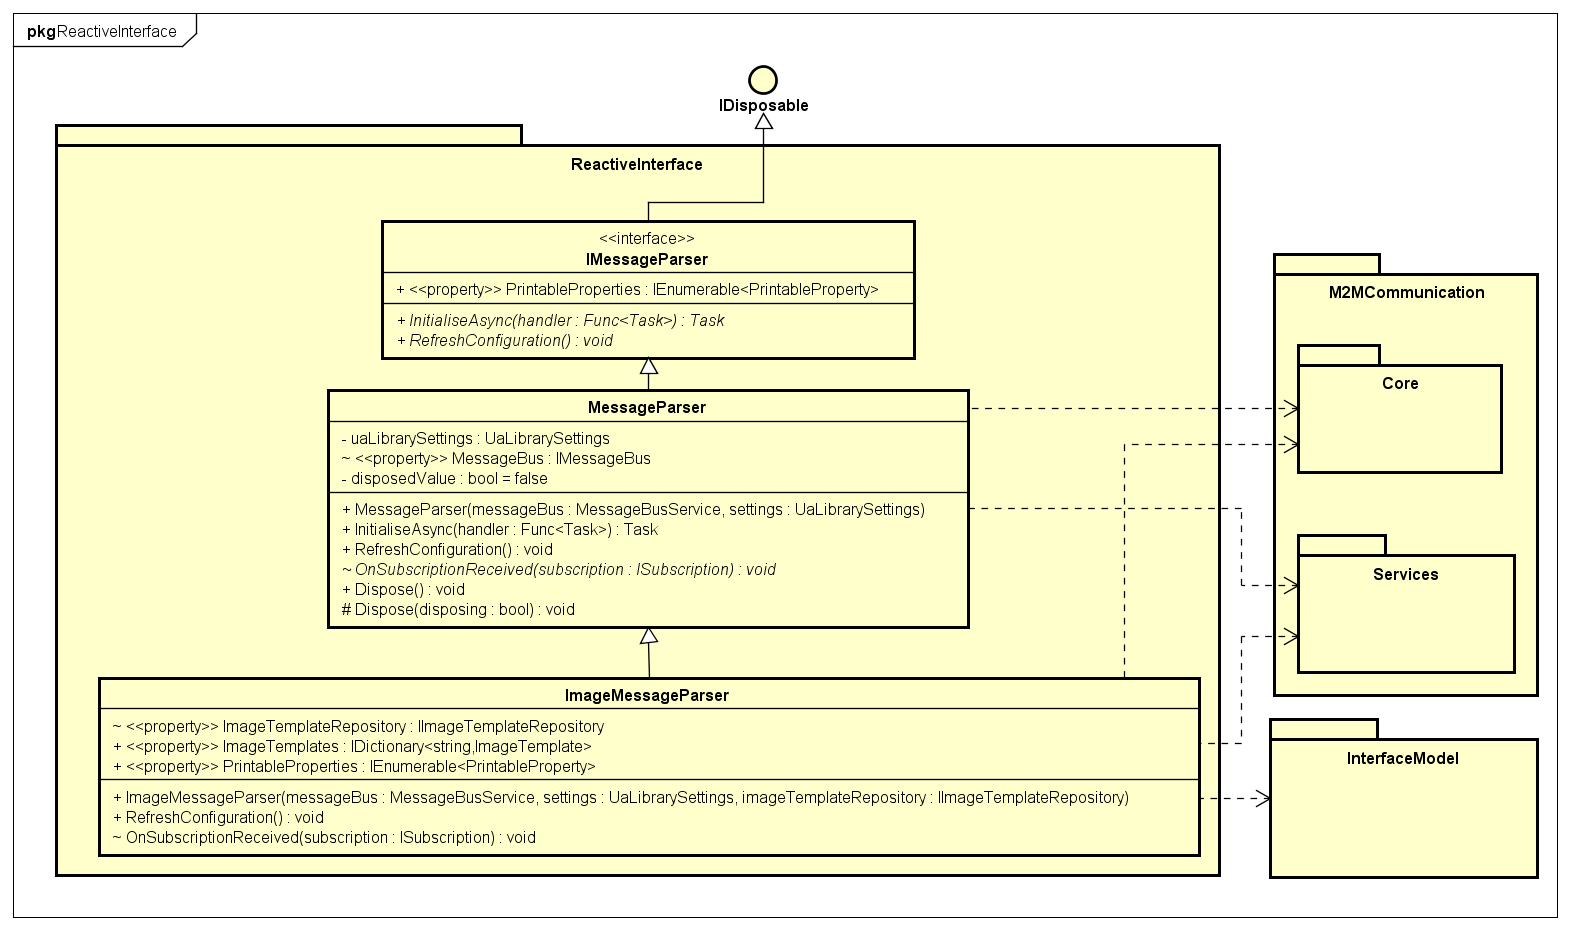
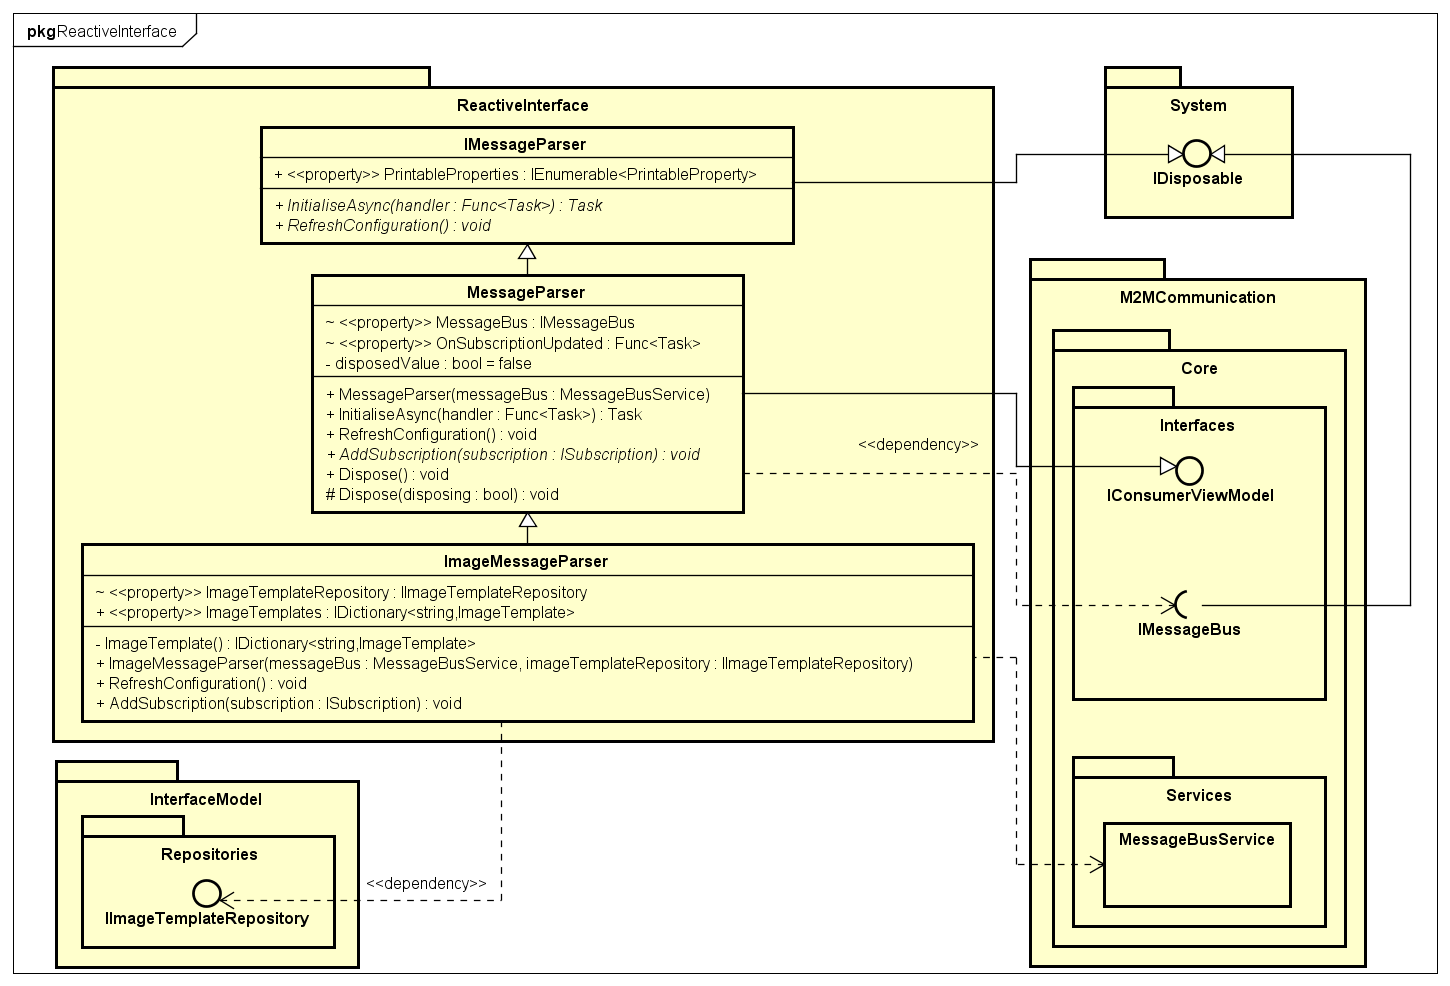
Updated documentation

diff --git a/M2M/M2MCommunication.Core/README.md b/M2M/M2MCommunication.Core/README.md
@@ -6,10 +6,59 @@ The goal of this project is to provide interfaces used in the whole application 
 
 | Name | Goal |
 |:----:|:-----|
-| `ISubscription` | Interface for a subscription to implement. Contains neccessary properties and methods |
 | `IConfiguration` | Interface for an implementation of configuration for either a consumer or producer |
-| `ISubscriptionFactory` | Interface for an object which is to be used for subscribing to the data types |
+| `IConsumerViewModel` | Interface for an implementation of a view model which should handle any new subscriptions |
+| `ILogger` | Interface for a logger to implement |
+| `ILoggerContainer` | An interface for a type that aggregates all external loggers and merges them into a single sink |
 | `IMessageBus` | Interface for an object representing a bus that will notify subscribers about changes in the data they subscribed to |
+| `ISubscription` | Interface for a subscription to implement. Contains neccessary properties and methods |
+| `ISubscriptionFactory` | Interface for an object which is to be used for subscribing to the data types |
+
+### *IConfiguration*
+
+An interface for an implementation of configuration for either a consumer or producer
+
+#### Methods
+
+| Return type | Name |  Description |
+|:-----------:|:----:|:-------------|
+| `string` | GetAliasForRepositoryGroup(`string` repositoryGroupName) | Provides an alias for a |
+
+### *IConsumerViewModel*
+
+Interface for an implementation of a view model which should handle any new subscriptions
+
+#### Methods
+
+| Return type | Name |  Description |
+|:-----------:|:----:|:-------------|
+| `void` | AddSubscription(`ISubscription` subscription) | Handles a new subscription |
+
+### *IMessageBus*
+
+An interface for an object representing a bus that will notify subscribers about changes in the data they subscribed to
+
+#### Methods
+
+| Return type | Name |  Description |
+|:-----------:|:----:|:-------------|
+| `void` | Initialise(`IConsumerViewModel` consumerViewModel)| Injects specified view model and start communication |
+| `Task` | InitialiseAsync(`IConsumerViewModel` consumerViewModel)| Injects specified view model and start communication asynchronously |
+| `void` | RefreshConfiguration() | Reads the configuration again and restarts the process of reading data |
+
+### *ILogger*
+
+Interface for a logger to implement
+
+#### Methods
+
+| Return type | Name |  Description |
+|:-----------:|:----:|:-------------|
+| `void` | LogInfo(`string` message, `string` callerName, `string` callerPath)| Logs specified message with `information` level |
+| `void` | LogWarning(`string` message, `string` callerName, `string` callerPath) | Logs specified message with `warning` level |
+| `void` | LogWarning(`Exception` exception, `string` message, `string` callerName, `string` callerPath) | Logs specified message and exception message with `warning` level |
+| `void` | LogError(`string` message, `string` callerName, `string` callerPath) | Logs specified message with `error` level |
+| `void` | LogError(`Exception` exception, `string` message, `string` callerName, `string` callerPath) | Logs specified message and exception message with `error` level |
 
 ### *ISubscription*
 
@@ -39,28 +88,6 @@ An interface for an implementation of configuration for either a consumer or pro
 | Return type | Name |  Description |
 |:-----------:|:----:|:-------------|
 | `void` | Initialise(`IConsumerViewModel` consumerViewModel) | Initialises the instance by providing the view model of the consumner's interface |
-
-### *IConfiguration*
-
-An interface for an implementation of configuration for either a consumer or producer
-
-#### Methods
-
-| Return type | Name |  Description |
-|:-----------:|:----:|:-------------|
-| `IDictionary<string, string>` | GetRepositoryGroupAliases() | Provides mappings of the repository group to its alias |
-
-### *IMessageBus*
-
-An interface for an object representing a bus that will notify subscribers about changes in the data they subscribed to
-
-#### Methods
-
-| Return type | Name |  Description |
-|:-----------:|:----:|:-------------|
-| `void` | Initialise(`UaLibrarySettings` settings)| Initialises the message bus with the specified settings |
-| `Task` | InitialiseAsync(`UaLibrarySettings` settings)| Initialises the message bus with the specified settings asynchronously |
-| `void` | RefreshConfiguration() | Reads the configuration again and restarts the process of reading data |
 
 ## Common types
 
@@ -95,8 +122,18 @@ A POCO object representing the type of a UA object
 
 | Type | Name | Accessors | Description |
 |:----:|:----:|:---------:|:------------|
-|`string`|TypeName| get; | Name of the type; required |
-|`string`|RepositoryGroupName| get; | Name of the repository the type belongs to |
+|`string`| TypeName | get; | Name of the type; required |
+|`string`| RepositoryGroupName | get; | Name of the repository the type belongs to |
+
+### *UaContractNames*
+
+A class containing const string values for MEF container to use as contract names
+
+#### Fields
+
+| Type | Name | Description |
+|:----:|:----:|:------------|
+|`string`| ConfigurationFileNameContract | Contract name for a configuration filename |
 
 ## Exceptions
 

diff --git a/M2M/M2MCommunication.Uaooi/README.md b/M2M/M2MCommunication.Uaooi/README.md
@@ -36,7 +36,6 @@ An implementation of the `ISubscription` interface used in `ISubscriptionFactory
 | `void` | Enable(`PropertyChangedEventHandler` handler) | Removes all existing event handlers and then adds the provided handler |
 | `void` | Disable() | Removes all existing event handlers |
 
-
 ## Injections
 
 | Name | Description |
@@ -57,7 +56,7 @@ A representation of the consumer's configuration.
 
 | Name | Description |
 |:----:|:------------|
-| Configuration() | Default constructor; Initialises the object |
+| Configuration(`ILogger` logger, `string` configurationFileName) | Initialises the object with provided logger and a name of the configuration file |
 
 #### Events
 
@@ -70,8 +69,7 @@ A representation of the consumer's configuration.
 
 | Return type | Name | Description |
 |:-----------:|:----:|:------------|
-| `void` | Initialise(`string` configurationFileName) | Initialises neccessary values that are not provided through dependency injection |
-| `IDictionary<string, string>` | GetRepositoryGroupAliases() | Used to read all mappings of the configured types to the aliases known to the reactive interface |
+| `string` | GetAliasForRepositoryGroup(`string` repositoryGroupName) | Used to read an alias connected to the repository's type |
 
 ### *ConsumerBindingFactory*
 
@@ -83,13 +81,7 @@ An implementation of `IBindingFactory` and `ISubscriptionFactory` which provides
 
 | Name | Description |
 |:----:|:------------|
-| ConsumerBindingFactory() | Default constructor; Initialises the object |
-
-#### Events
-
-| Type | Name | Description |
-|:----:|:----:|:------------|
-| `EventHandler<ISubscription>` | SubscriptionAdded | Invoked after generating a binding and creating a subscription that wraps it |
+| ConsumerBindingFactory(`ILogger` logger, `IConfiguration` configuration) | Initialises the object with provided logger and configuration instances |
 
 #### Methods
 
@@ -97,6 +89,7 @@ An implementation of `IBindingFactory` and `ISubscriptionFactory` which provides
 |:-----------:|:----:|:------------|
 | `IConsumerBinding` | GetConsumerBinding(`string` repositoryGroup, `string` processValueName, `UATypeInfo` fieldTypeInfo) | Gets a consumer binding for a type specified by the parameters |
 | `IProducerBinding` | GetProducerBinding(`string` repositoryGroup, `string` processValueName, `UATypeInfo` fieldTypeInfo) | Throws `NotSupportedException` since the application works only in the consumer mode |
+| `void` | Initialise(`IConsumerViewModel` consumerViewModel) | Derived from `IConfiguration`; injects `IConsumerViewModel` into the instance |
 
 ### *UaooiMessageBus*
 
@@ -110,7 +103,7 @@ Represents a message bus which notifies subscribers about updates in the data th
 
 | Name | Description |
 |:----:|:------------|
-| UaooiMessageBus(`IConfiguration` configuration, `IEncodingFactory` encodingFactory, `ISubscriptionFactory` subscriptionFactory, `IMessageHandlerFactory` messageHandlerFactory) | Initialises the object with provided parameters, which should be injected |
+| UaooiMessageBus(`IConfiguration` configuration, `IEncodingFactory` encodingFactory, `ISubscriptionFactory` subscriptionFactory, `IMessageHandlerFactory` messageHandlerFactory, `ILogger` logger) | Initialises the object with provided parameters |
 
 #### Properties
 
@@ -125,16 +118,16 @@ Represents a message bus which notifies subscribers about updates in the data th
 
 | Return type | Name | Description |
 |:-----------:|:----:|:------------|
-| `void` | Initialise(`UaLibrarySettings` settings) | Starts this instance - Initializes the data set infrastructure, enables all associations and starts pumping the data |
+| `void` | Initialise(`IConsumerViewModel` consumerViewModel) | Starts this instance - Initializes the data set infrastructure, enables all associations and starts pumping the data |
+| `Task` | InitialiseAsync(`IConsumerViewModel` consumerViewModel) | Starts this instance asynchronously - Initializes the data set infrastructure, enables all associations and starts pumping the data |
 | `void` | RefreshConfiguration() | Reads the configuration again and restarts the process of reading data |
-
 
 ## Extensions
 
 | Name | Description |
 |:----:|:------------|
-| `ConfigurationExtension` | A type that extends `ConfigurationData` and provides mappings of types used in the configuration to aliases used to create interfaces for the types | 
-| `InformationModelAlias` | A serializable POCO object representing mappings of the UA types to aliases recognised by the reactive interface | 
+| `ConfigurationExtension` | A type that extends `ConfigurationData` and provides mappings of types used in the configuration to aliases used to create interfaces for the types |
+| `InformationModelAlias` | A serializable POCO object representing mappings of the UA types to aliases recognised by the reactive interface |
 | `UATypeInfoExtensions` | A set of extension methods for `UATypeInfo` type |
 
 ### UATypeInfoExtensions

diff --git a/ReferenceWebApplication/ReactiveInterface/README.md b/ReferenceWebApplication/ReactiveInterface/README.md
@@ -1,6 +1,8 @@
 # Reactive interface
 
-Project that targets handling received data from M2M communication. Contains a simple hierarchy of one interface, one base class and `ImageMessageParser` implemetation, which is used as a service and therefore is injected in the interface's view models.
+A module that targets handling received data from M2M communication. Contains a simple hierarchy of one interface, one base class and `ImageMessageParser` implemetation, which is used as a service and therefore is injected in the interface's view models.
+
+Parsing starts with injecting a message bus into an `ImageMessageParser` and initialising the bus with `MessageParser`'s instance which also implements `IConsumerViewModel`. The bus then starts communication and calls back the message parser each time there is a new `Subscription` bound. Message parser analyses the type and repository group of the subscription, checks whether can it be assigned to an `ImageTemplate` and creates either a `DrawableProperty` or a `PrintableProperty` based on that with the subscription as its value. Those properties are used directly in the [blazor components](../Components)
 
 ## UML class diagram
 

diff --git a/M2M/M2MCommunication.Services/README.md b/M2M/M2MCommunication.Services/README.md
@@ -7,23 +7,6 @@ The goal of this project is to provide an additional layer of abstraction, so th
 | Name | Description |
 |:----:|:-----|
 | `MessageBusService` | A wrapper for an injected `IMessageBus` implementation |
-| `SubscriptionFactoryService` | A wrapper for an injected `ISubscriptionFactory` implementation |
-
-### *SubscriptionFactoryService*
-
-A wrapper for an injected `ISubscriptionFactory` implementation
-
-#### Constructors
-
-| Name | Description |
-|:----:|:------------|
-|SubscriptionFactoryService()| Default constructor, tries to inject an instance of `ISubscriptionFactory` implementation into its property |
-
-#### Properties
-
-| Type | Name | Accessors | Description |
-|:----:|:----:|:---------:|:------------|
-| `ISubscriptionFactory` |**SubscriptionFactory**| get; | Injected `ISubscriptionFactory` service |
 
 ### *MessageBusService*
 
@@ -49,7 +32,7 @@ A wrapper for an injected `IMessageBus` implementation
 |:----:|:----:|:------------|
 | `void` | Dispose() | Disposes the `MessageBus` property |
 
-## Helper classes
+## MEF helper classes
 
 | Name | Description |
 |:----:|:-----|

diff --git a/M2M/README.md b/M2M/README.md
@@ -7,7 +7,7 @@ Following set of modules targets the functionality of communication between IoT 
 - [M2MCommunication.Core](M2MCommunication.Core)
   - Contains core interfaces and common types referenced within the whole application
 - [M2MCommunication.Services](M2MCommunication.Services)
-  - Provides an extra layer of abstraction through adapters allowing native **ASP**.**NET** DI container to register and inject necessary OPC-UA services without any hard dependencies
+  - Includes services used to handle Managed Extensibility Framework container and an extra layer of abstraction through an adapter allowing native **ASP**.**NET** DI container to register and inject `IMessageBus` service without any hard dependency
 - [M2MCommunication.Uaooi](M2MCommunication.Uaooi)
   - Contains extensions of the [UAOOI](https://github.com/mpostol/OPC-UA-OOI) package with adapters used for dependency injection
 - M2MCommunication.UnitTest

diff --git a/ReactiveInterface/README.md b/ReactiveInterface/README.md
@@ -1,13 +1,11 @@
 # Reactive interface
 
-Module that targets parsing of the receiving data and preparing it for display. It processes any data bindings provided by the injected Message Bus.
+Module that targets modeling of the receiving data and preparing it for display. It processes any data bindings provided by the injected Message Bus.
 
 ## Projects
 
-- [ReactiveInterface](ReactiveInterface)
-  - Contains core functionality of the parsing mechanism
 - [InterfaceModel](InterfaceModel)
-  - Contains the model used in the ReactiveInterface project and provides means to persist it
+  - Contains the model used in the ReactiveInterface module in the ReferenceWebApplication project and provides means to persist it
 - ReactiveInterfaceUnitTest
   - Contains unit tests for every project in this module
   - Implemented using [xUnit](https://xunit.net) framework

diff --git a/ReferenceWebApplication/README.md b/ReferenceWebApplication/README.md
@@ -7,6 +7,7 @@ This module focuses on pure **ASP**.**NET** elements, which are:
 - Dependency injection container and services
   - [Startup](Startup.cs)
 - Graphical interface (using [Server Side Blazor](https://blazor.net))
+  - [ReactiveInterface](ReactiveInterface) - Core logic behind reactive interface based on types
   - [Namespaces](_Imports.razor)
   - [Imports](Pages/_Host.cshtml)
   - [Components](Components)
